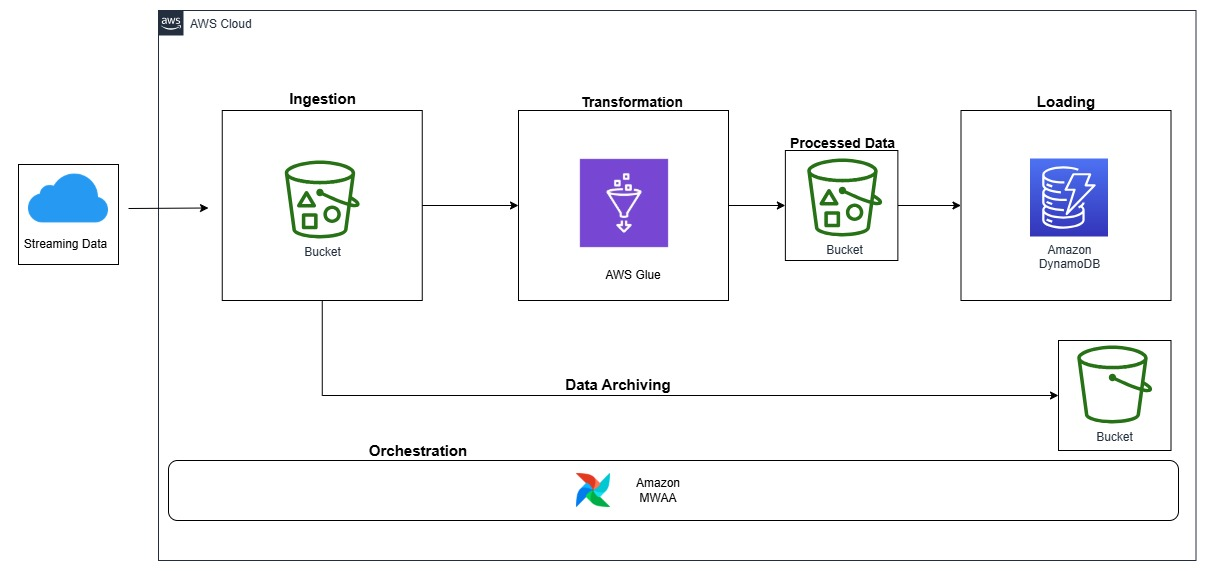
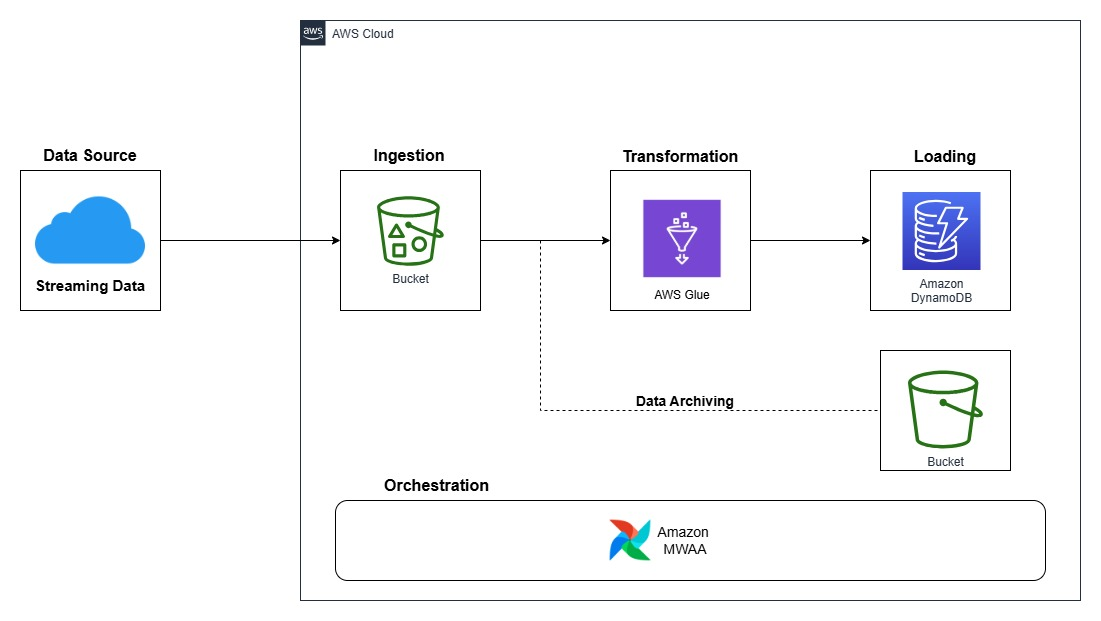
Update README to reflect real-time ETL pipeline enhancements and add architecture diagram

diff --git a/README.md b/README.md
@@ -3,29 +3,81 @@ Overview
 
 # Data Pipeline with Airflow & AWS GLUE
 
-This project demonstrates how to use Apache Airflow to orchestrate an ETL pipeline that extracts data from an S3 bucket, transforms it, and loads it into a DynamoDB table. This project fetches batch data containing user and song metadata that reside in an Amazon RDS database and streaming data stored in Amazon S3 in batch files. This pipeline extracts, validates, transforms, and loads the data into Amazon DynamoDB for fast analytical processing and real-time business intelligence consumption.
+This project is a real-time ETL pipeline built to process streaming music listening data, compute daily key performance indicators (KPIs) at the genre level, and store the results in Amazon DynamoDB for fast lookups and reporting.
+It ingests streaming activity data, song metadata, and user data, computes daily metrics including top songs and top genres, and archives processed data for traceability. This pipeline extracts, validates, transforms, and loads the data into Amazon DynamoDB for fast analytical processing and real-time business intelligence consumption.
 
+
+Architecture Diagram
+======
 <p align="center">
     <img src="images/architecture_diagram.jpg" alt="The architecture diagram" width="100%" />
 </p>
 
 Technologies Used
 ==================
- - Apache Airflow (ETL orchestration)
- - AWS Glue (PySpark, Python Shell) (Data transformation)
- - Amazon S3 (Raw data storage)
- - Amazon DynamoDB (Processed data storage)
- - Python, Pandas, PySpark (Data processing)
+| Service            | Why it was used                                                                                        |
+|--------------------|-------------------------------------------------------------------------------------------------------|
+| **Amazon S3**      | Acts as the data lake for ingesting streaming data, user profiles, and song metadata.                |
+| **AWS Glue**       | Used for data transformation, cleaning, KPI computation, and writing the results directly to DynamoDB.|
+| **Glue Crawlers**  | Automatically discover schema and keep AWS Glue Data Catalog up-to-date.                             |
+| **Apache Airflow** | Orchestrates pipeline tasks, triggers the Glue job on schedule, and handles notifications.            |
+| **Amazon DynamoDB**| Chosen as the destination to store daily KPIs for fast and scalable lookups.                         |
+| **Boto3 (Python SDK)** | Used inside the Glue script to write transformed KPI data directly into DynamoDB.              |
 
-## KPIs Computed
-- Listen Count: Total number of streams per genre per day.
-- Unique Listeners: Count of distinct users per genre per day.
-- Total Listening Time: Aggregate listening duration per genre per day.
-- Average Listening Time per User: Mean listening time per user per day.
-- Top 3 Songs per Genre per Day: Most played tracks in each genre daily.
-- Top 5 Genres per Day: Most popular genres based on listen count.
 
-## Architecture & Data Flow
+<p align="center">
+    <img src="images/etl_with_glue -.png" alt="The architecture diagram" width="100%" />
+</p>
+
+How the Pipeline Works 
+============= 
+
+1. **Data Ingestion:**  
+   - Streaming listening data, user profiles, and song metadata are uploaded into respective folders in S3.  
+2. **Crawler Execution:**  
+   - Glue Crawler scans the S3 processed folder to update the Glue Catalog with fresh schema.  
+3. **Airflow DAG Trigger:**  
+   - Airflow schedules the job every hour.  
+   - If validation succeeds, it runs the Glue job.  
+4. **Glue ETL Job:**  
+   - Reads processed data from the Glue Catalog  
+   - Performs transformations and KPI computations  
+   - Converts float values into `Decimal` (required by DynamoDB)  
+   - Populates results directly into DynamoDB.  
+5. **Post-processing:**  
+   - Processed data is archived to an archival S3 bucket.  
+   - Original processed folder contents are deleted, leaving the structure intact.  
+
+
+DynamoDB Table Schema  
+=============
+
+| Attribute                     | Type    | Description                                         |
+|--------------------------------|---------|-----------------------------------------------------|
+| `date`                         | String  | The date for which KPIs are computed (partition key)|
+| `track_genre`                  | String  | The genre of the tracks (sort key)                  |
+| `listen_count`                 | Number  | Total listen count                                  |
+| `unique_listeners`             | Number  | Unique listeners count                              |
+| `total_listening_time`         | Number  | Total listening time in milliseconds                |
+| `avg_listening_time_per_user`  | Decimal | Average listening time per user (stored as Decimal) |
+| `top_3_songs`                  | String  | Comma-separated list of top 3 songs                 |
+| `top_5_genres`                 | String  | Comma-separated list of top 5 genres of the day     |
+
+
+KPIs Computed
+=============
+| KPI                           | Description                                                                    |
+|--------------------------------|--------------------------------------------------------------------------------|
+| `listen_count`                 | Number of listens per genre per day.                                           |
+| `unique_listeners`             | Number of unique listeners per genre per day.                                  |
+| `total_listening_time`         | Sum of all listening durations (in milliseconds) per genre per day.            |
+| `avg_listening_time_per_user`  | Average listening time (in seconds) per user, per genre per day.               |
+| `top_3_songs`                  | Top 3 most listened-to songs per genre per day (comma-separated).              |
+| `top_5_genres`                 | Top 5 most popular genres per day (comma-separated).                           |
+
+
+Architecture & Data Flow
+===
 1. Data Source:
     - Streaming data is ingested as batch files in Amazon S3 at irregular intervals.
 2. Processing:
@@ -42,6 +94,15 @@ Key Features
  3. Automated Workflow: Orchestrated with Apache Airflow, ensuring smooth execution and monitoring.
  4. Failure Handling: Sends email alerts if the pipeline fails.
 
+
+Cleanup and Archiving Process  
+==============
+
+- After the Glue job finishes successfully:  
+  - All processed data is moved from the `processed` folder in S3 to the `archive` bucket.  
+  - Only the folder structure remains; all file contents are deleted.  
+
+
 Project Contents
 ================
 
@@ -49,14 +110,14 @@ Your Astro project contains the following files and folders:
 
 - dags: This folder contains the Python files for your Airflow DAGs. By default, this directory includes one example DAG:
     - `example_astronauts`: This DAG shows a simple ETL pipeline example that queries the list of astronauts currently in space from the Open Notify API and prints a statement for each astronaut. The DAG uses the TaskFlow API to define tasks in Python, and dynamic task mapping to dynamically print a statement for each astronaut. For more on how this DAG works, see our [Getting started tutorial](https://www.astronomer.io/docs/learn/get-started-with-airflow).
-    - `dag_v1` : 
+    - `dag_v1`: This DAG orchestrates the ETL pipeline for processing streaming music listening data. It includes tasks for data ingestion, validation, transformation, KPI computation, and loading results into Amazon DynamoDB. The DAG is designed for scalability and fault tolerance, ensuring smooth execution of the pipeline.
 - Dockerfile: This file contains a versioned Astro Runtime Docker image that provides a differentiated Airflow experience. If you want to execute other commands or overrides at runtime, specify them here.
 - include: This folder contains any additional files that you want to include as part of your project. It is empty by default.
 - packages.txt: Install OS-level packages needed for your project by adding them to this file. It is empty by default.
 - requirements.txt: Install Python packages needed for your project by adding them to this file. It is empty by default.
 - plugins: Add custom or community plugins for your project to this file. It is empty by default.
-- notebooks: wertyuiop
-    - `eda.ipynb`:
+- notebooks: 
+    - `eda.ipynb`: This Jupyter Notebook contains exploratory data analysis (EDA) for the streaming music dataset. It includes  statistical summaries to understand the data distribution, identify anomalies, and validate the schema before processing. The notebook serves as a reference for designing the data transformation logic.
 - airflow_settings.yaml: Use this local-only file to specify Airflow Connections, Variables, and Pools instead of entering them in the Airflow UI as you develop DAGs in this project.
 
 Deploy Your Project Locally
